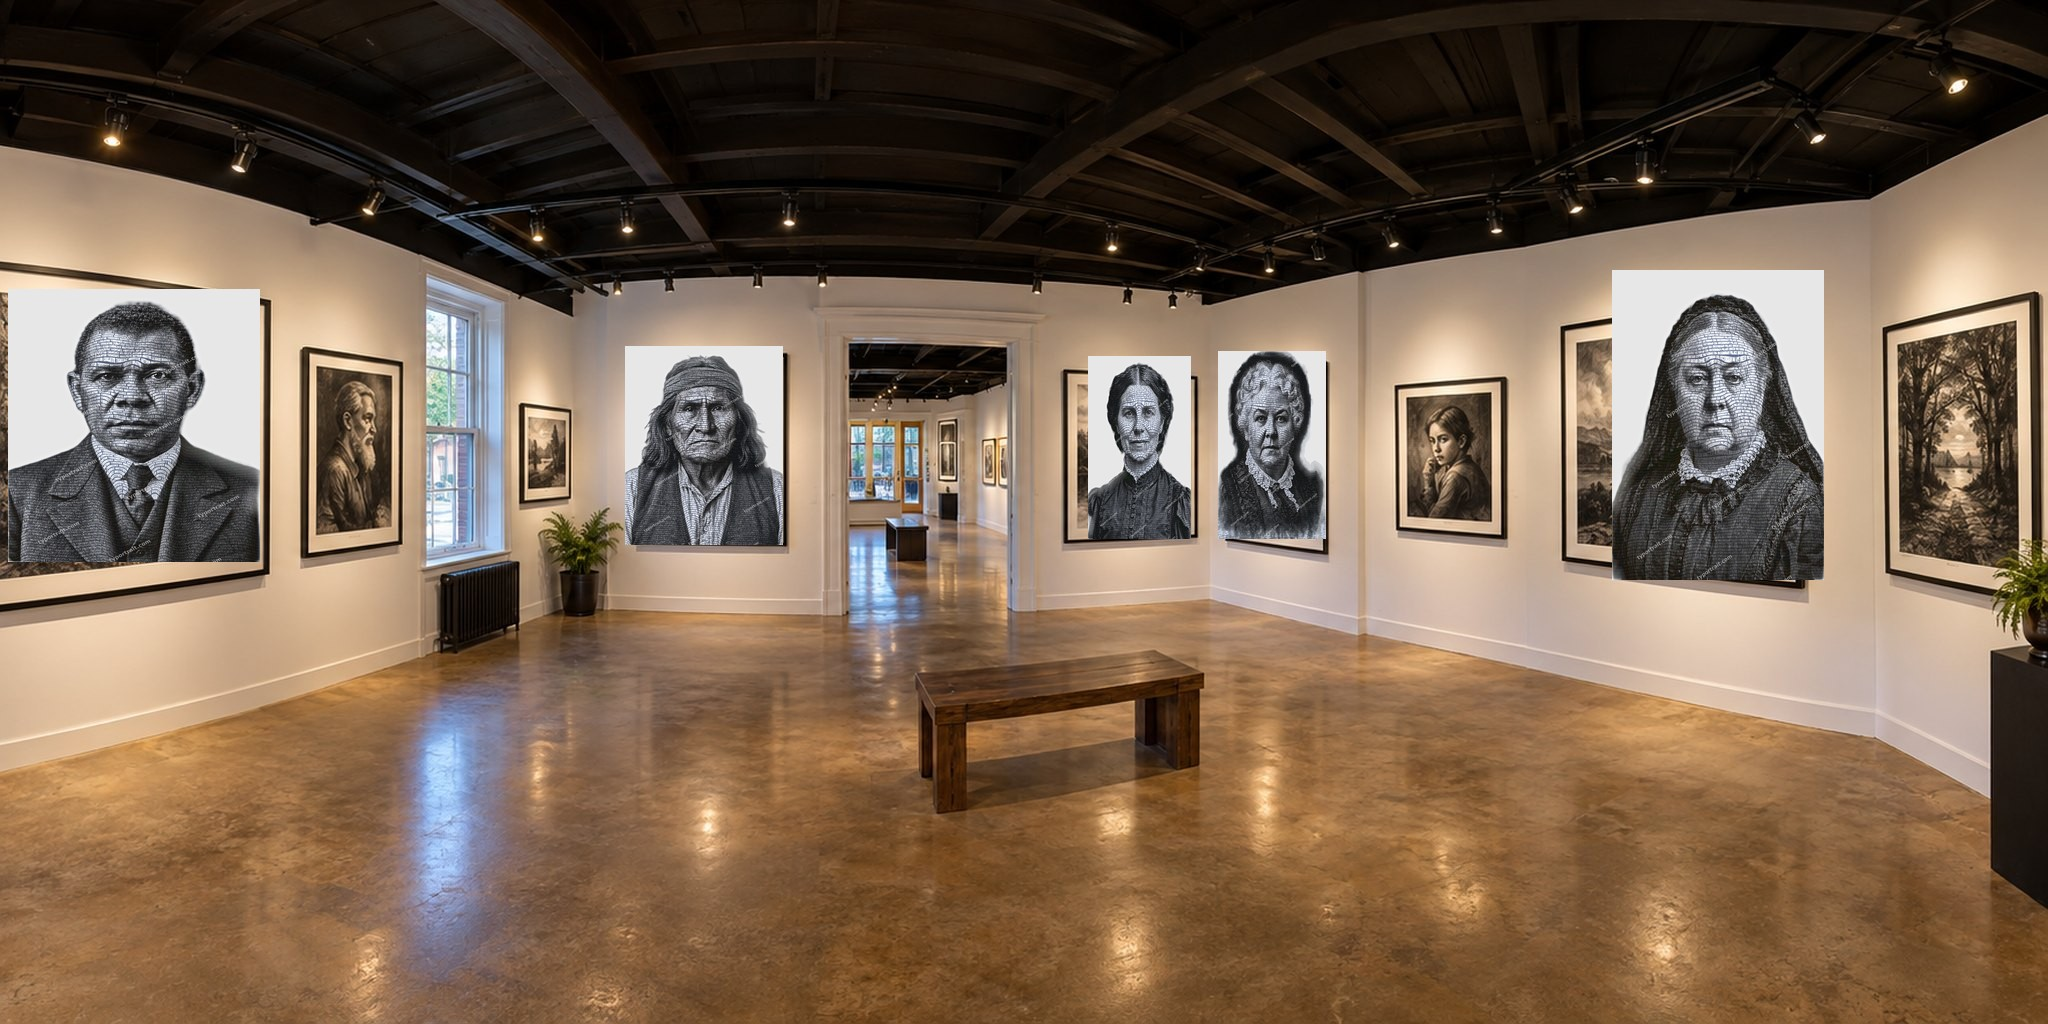
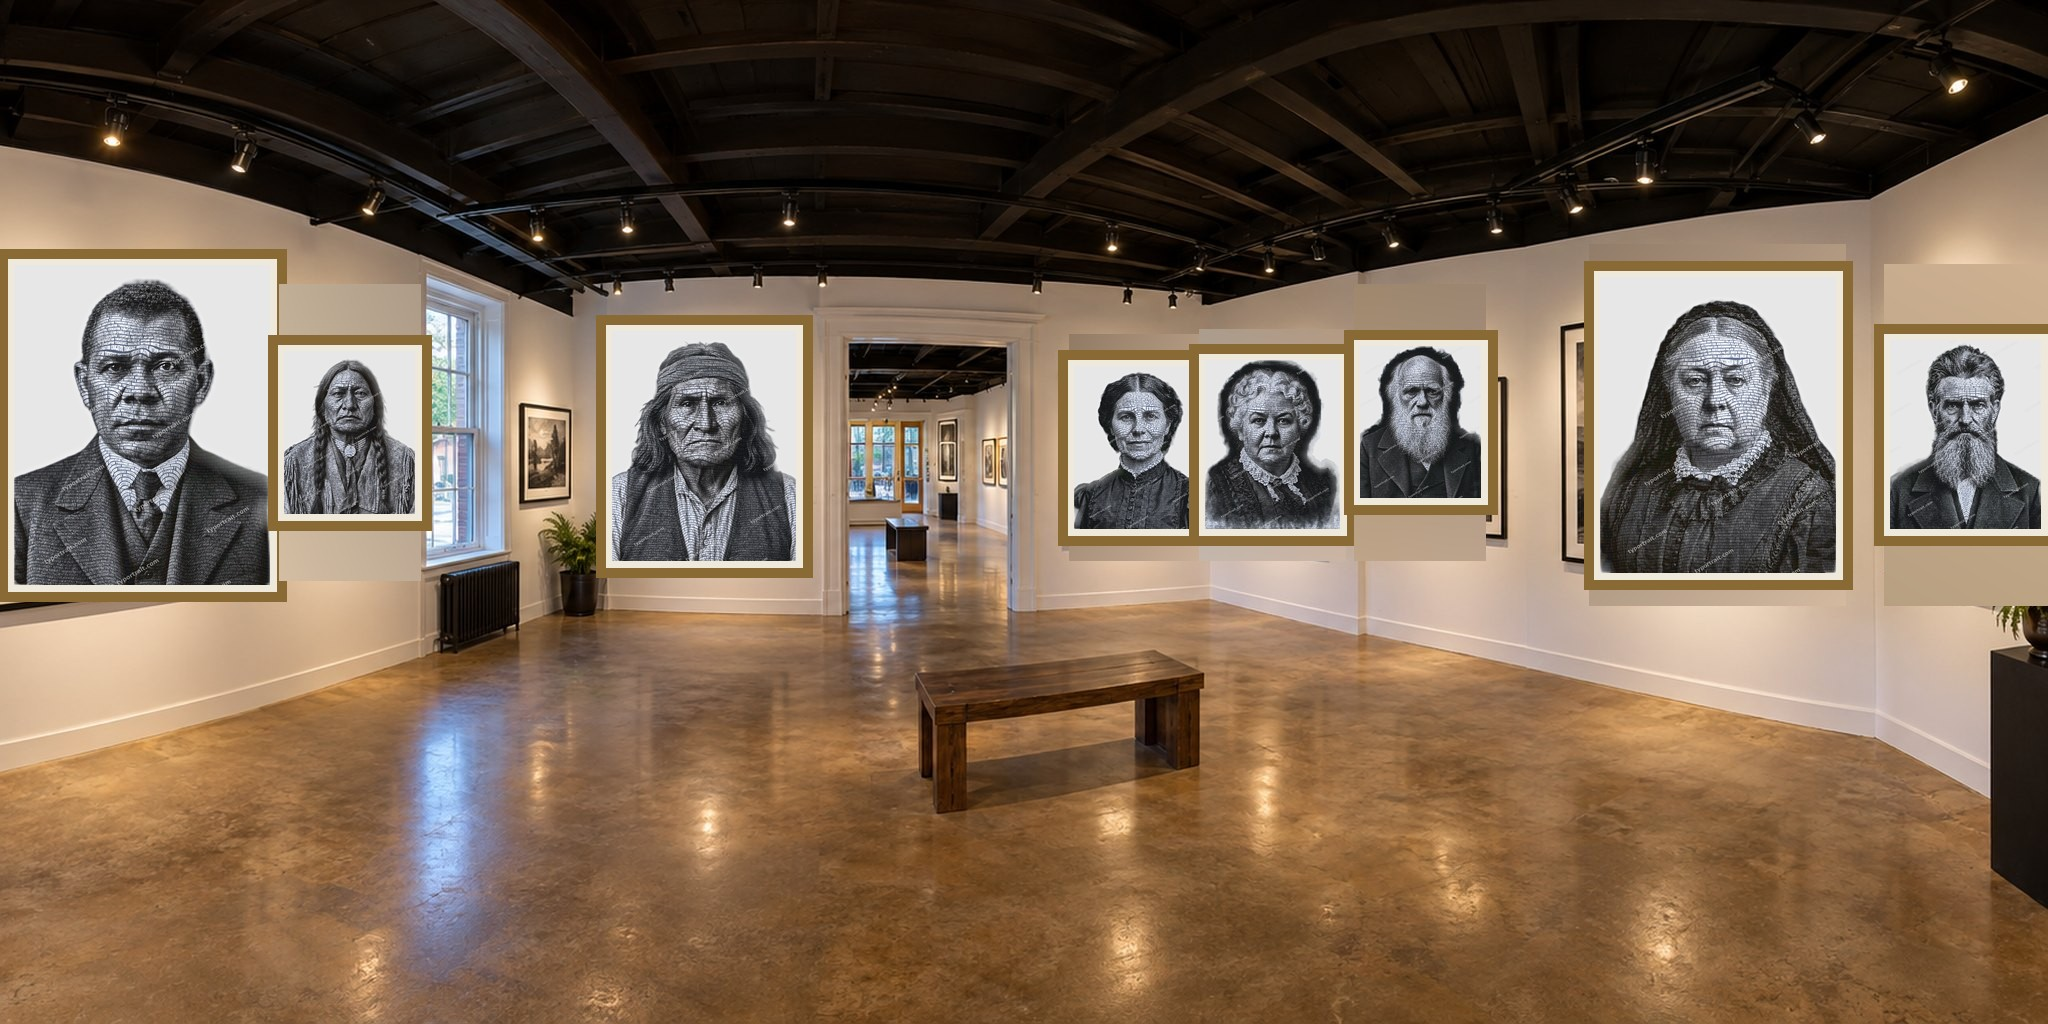
Rebuild photo tour bake: erase original art, draw our own frame, don't fit into theirs
Every prior version tried to make our portraits sit inside the SHAPE of
whatever real frame already hung at each spot in these photos -- as a
separate 3D card, or pixel-replacing just the picture area stretched or
padded to that frame's own aspect ratio. All of them ran into the same wall:
a real frame's shape doesn't always suit a portrait, and every way of
reconciling the two looked wrong -- the original art peeking through, a
visibly stretched face, or an obviously-pasted-on rectangle filling the gap.

This stops trying to fit into the existing frame's shape at all. For each
of the 19 identified frames across the three rooms, the original
photographed art is erased outright -- gradient-filled from the real wall
color sampled just outside its own edges, not covered by anything foreign --
and our own portrait is drawn on top at its own correct proportions, inside
a freshly-drawn gold frame, sized to sit comfortably in the erased area
rather than forced to fill it exactly. Because the erased area is genuinely
wall-colored now, not a mismatched patch, extra space around a portrait just
reads as wall -- the same as any other gap between two real frames -- so a
landscape-shaped or extreme-portrait-shaped real frame is exactly as usable
as a square one.

19 of 23 catalog items now have a baked spot across the three rooms (up from
14); the rest still sell fine from the grid and the walkthrough corridor.

Claude-Session: https://claude.ai/code/session_01XwVU5cc41rNpqSZeMAKs6S

Changed region(s): [[0.5, 0.25, 1.0, 0.5938], [0.0, 0.2188, 0.2188, 0.5938], [0.2812, 0.2812, 0.4062, 0.5625]]

diff --git a/typography_engine/static/gallery.html b/typography_engine/static/gallery.html
@@ -452,22 +452,23 @@ let raycaster, pointerNDC;   // built in initRenderer, once THREE is actually lo
 // The procedural corridor above gets the geometry and depth right but is still built
 // from flat materials and a handful of lights -- it can only ever look like a decent
 // 3D model. These three images are real (or near-photoreal) equirectangular panoramas
-// of an actual gallery interior, uploaded by the user. A first version placed our
-// portraits as separate 3D "cards" floating in front of the photo -- technically
-// correct but it read as exactly that: flat stickers pasted on top of a photograph,
-// not art actually hanging on the wall. This version instead bakes each portrait
-// directly into the panorama JPGs themselves (see ops/photoscene-composite, or ask
-// Claude to regenerate), pixel-replacing the real photographed artwork's picture area
-// -- so ours sits inside the SAME real frame, mat and lighting as whatever used to
-// hang there. What's built at runtime is just an invisible click/caption target at
-// each baked position, for navigation -- there is no visible mesh over the art itself.
-// Each photo can only show a portrait on a real frame whose own shape is already
-// close to a portrait's -- forcing one onto a landscape- or extreme-portrait-shaped
-// frame (stretching it, or padding the leftover space) always looked like a visible
-// patch rather than art actually hanging there, so those frames are simply left
-// untouched. 14 of 23 catalog items have a natural-looking spot across the three
-// rooms this way; the rest still sell fine from the grid and the corridor.
-const PHOTO_BAKE_VERSION = 5;    // bump whenever the baked panorama JPGs are regenerated
+// of an actual gallery interior, uploaded by the user. Earlier versions tried, several
+// different ways, to fit our portraits into the SHAPE of whatever real frame already
+// hung at each spot (a separate 3D card floating over the photo; pixel-replacing just
+// the picture area, stretched or padded to that frame's own aspect ratio) -- every one
+// of those either left the original art peeking through, visibly stretched a face out
+// of shape, or padded the gap with an obviously-pasted-on rectangle, because a real
+// frame's shape doesn't always suit a portrait. This version (see
+// ops/photoscene-composite.py, or ask Claude to regenerate) instead ERASES the real
+// frame's original art entirely -- gradient-filled from the real wall color sampled
+// just outside it, not covered by anything foreign -- and draws our own portrait, at
+// its own correct proportions, in a freshly-drawn gold frame, sized to sit comfortably
+// in the erased area rather than forced to fill it exactly. What's built at runtime is
+// just an invisible click/caption target at each baked position, for navigation --
+// there is no separate visible mesh over the art itself, it's genuinely part of the
+// photo. 19 of 23 catalog items have a spot across the three rooms this way; the rest
+// still sell fine from the grid and the corridor.
+const PHOTO_BAKE_VERSION = 6;    // bump whenever the baked panorama JPGs are regenerated
 const PHOTO_ROOM_RADIUS = 900;   // the panorama sphere
 const PHOTO_FRAME_RADIUS = 650;  // depth of the invisible click targets (matches bake)
 // Yaw values below are pre-corrected for THREE's actual SphereGeometry UV convention
@@ -479,24 +480,29 @@ const PHOTO_FRAME_RADIUS = 650;  // depth of the invisible click targets (matche
 // before this was calibrated, and easy to miss since it looks approximately plausible.
 const PHOTO_ROOMS = [
   { name:"The Entrance", src:"/static/gallery/photoscene/entrance.jpg", slots:[
-    {id:"edgar-allan-poe", yaw:-2.9974, pitch:0.2899, w:285.6, h:375.5},
-    {id:"frederick-douglass", yaw:2.1583, pitch:0.1902, w:198.3, h:246.6},
-    {id:"abraham-lincoln", yaw:-0.9787, pitch:0.1825, w:207.9, h:335.2},
+    {id:"edgar-allan-poe", yaw:-2.9974, pitch:0.2899, w:409.6, h:503.8},
+    {id:"frederick-douglass", yaw:2.1583, pitch:0.1902, w:321.4, h:390.0},
+    {id:"harriet-tubman", yaw:0.7547, pitch:0.1825, w:407.5, h:499.2},
+    {id:"abraham-lincoln", yaw:-0.9787, pitch:0.1825, w:332.0, h:400.9},
+    {id:"mark-twain", yaw:-1.3883, pitch:0.2746, w:285.6, h:344.8},
   ]},
   { name:"The Main Gallery", src:"/static/gallery/photoscene/main-room.jpg", slots:[
-    {id:"susan-b-anthony", yaw:-2.1844, pitch:0.2132, w:305.4, h:479.4},
-    {id:"walt-whitman", yaw:-3.1278, pitch:0.2362, w:335.2, h:468.7},
-    {id:"sojourner-truth", yaw:2.5802, pitch:0.1979, w:227.2, h:355.3},
-    {id:"theodore-roosevelt", yaw:0.0399, pitch:0.2899, w:365.3, h:500.8},
-    {id:"nikola-tesla", yaw:-0.5415, pitch:0.2209, w:256.3, h:345.2},
-    {id:"ulysses-s-grant", yaw:-1.0554, pitch:0.2899, w:345.2, h:500.8},
+    {id:"susan-b-anthony", yaw:-2.1844, pitch:0.2132, w:431.7, h:531.5},
+    {id:"walt-whitman", yaw:-3.1278, pitch:0.2362, w:460.7, h:571.5},
+    {id:"sojourner-truth", yaw:2.5802, pitch:0.1979, w:351.2, h:427.3},
+    {id:"theodore-roosevelt", yaw:0.0399, pitch:0.2899, w:492.3, h:612.4},
+    {id:"nikola-tesla", yaw:-0.5415, pitch:0.2209, w:381.3, h:465.1},
+    {id:"ulysses-s-grant", yaw:-1.0554, pitch:0.2899, w:471.9, h:585.8},
   ]},
   { name:"The Rear Salon", src:"/static/gallery/photoscene/rear-room.jpg", slots:[
-    {id:"booker-t-washington", yaw:-1.9819, pitch:0.2669, w:529.0, h:577.7},
-    {id:"geronimo", yaw:2.5525, pitch:0.2025, w:321.2, h:410.3},
-    {id:"clara-barton", yaw:1.2149, pitch:0.1979, w:207.9, h:375.5},
-    {id:"elizabeth-cady-stanton", yaw:0.8084, pitch:0.2056, w:217.6, h:385.7},
-    {id:"queen-victoria", yaw:-0.5568, pitch:0.2669, w:437.2, h:669.9},
+    {id:"booker-t-washington", yaw:-2.0064, pitch:0.2669, w:614.9, h:779.2},
+    {id:"sitting-bull", yaw:-2.6446, pitch:0.2439, w:332.0, h:400.9},
+    {id:"geronimo", yaw:2.5525, pitch:0.2025, w:447.2, h:552.5},
+    {id:"clara-barton", yaw:1.2149, pitch:0.1979, w:332.0, h:400.9},
+    {id:"elizabeth-cady-stanton", yaw:0.8084, pitch:0.2056, w:340.5, h:414.0},
+    {id:"charles-darwin", yaw:0.3559, pitch:0.2746, w:310.8, h:377.0},
+    {id:"queen-victoria", yaw:-0.5568, pitch:0.2669, w:566.7, h:715.5},
+    {id:"john-brown", yaw:-1.3192, pitch:0.2362, w:374.8, h:458.4},
   ]},
 ];
 let photoRoom = 0, photoYaw = 0, photoPitch = 0, photoFov = 66;

diff --git a/typography_engine/ops/photoscene-composite.py b/typography_engine/ops/photoscene-composite.py
@@ -1,20 +1,33 @@
 #!/usr/bin/env python3
 """Bakes History in Words portraits directly into the Photo Tour panorama JPGs
-(static/gallery/photoscene/*.jpg), replacing the real photographed artwork's picture
-area pixel-for-pixel so ours sits inside the same real frame, mat and lighting as
-whatever used to hang there -- see the "Photo Tour" comment block in gallery.html for
-why (a first version overlaid separate 3D "cards" on top of the photos instead, which
-read as flat stickers pasted onto a photograph, not art actually hanging on a wall).
+(static/gallery/photoscene/*.jpg).
+
+Earlier versions of this script tried to make our portraits sit inside the REAL
+photographed frames in these photos -- pixel-replacing just the picture area so ours
+used the real frame's own border/mat as its frame. That worked well for frames whose
+real shape was already close to a portrait's, but for the frames that weren't (a wide
+lake scene, a narrow tall strip), every way of reconciling a 4:5 portrait with a
+differently-shaped hole looked wrong: stretched a face out of shape, left the original
+art showing round the edges, or padded the gap with an obviously-pasted-on rectangle.
+That's not a technique problem, it's a shape problem -- you cannot losslessly fit a
+4:5 rectangle into a 3:1 one.
+
+This version sidesteps the whole problem: for each real frame ERASE the original
+photographed art -- gradient-fill it from the real wall color sampled just outside its
+own edges, removing it completely, not covering it with anything foreign -- and then
+draw our own portrait, at its own correct proportions, in a freshly-drawn frame,
+sized and centered in the erased area (not stretched or forced to any particular
+size). Because the surrounding wall is now genuinely wall-colored (not a mismatched
+patch), the portrait never needs to fill the whole erased area -- extra erased space
+either side just reads as wall, the same as any other gap between frames in a real
+gallery.
 
 Always reads its source panoramas from ops/photoscene-originals/*.jpg -- the true,
 never-baked photos as uploaded, kept permanently for exactly this purpose -- and
 writes the result to static/gallery/photoscene/*.jpg, overwriting whatever's there.
 Do NOT "fix" this to read from static/gallery/photoscene/ instead: those get
-committed already-baked, so reading from there bakes a portrait on top of whatever
-was baked there last time rather than on the real photo, and any REGIONS entry
-removed since then silently keeps showing its stale previous bake instead of
-reverting to the true original -- exactly the bug that prompted keeping a separate
-pristine copy in the first place. Needs Pillow:
+committed already-baked, so reading from there bakes on top of the previous bake
+rather than the real photo. Needs Pillow and NumPy:
     python3 ops/photoscene-composite.py
 
 After running, paste the printed PHOTO_ROOMS block into gallery.html verbatim (it
@@ -30,28 +43,12 @@ the yaw values it prints are ready to paste straight into gallery.html's PHOTO_R
 do NOT re-derive yaw from pixel position by the "obvious" formula without this
 correction, or captions/click-targets will land near the right neighborhood but not on
 the actual baked portrait, which is exactly what happened here before this was found.
-
-IMPORTANT -- why some real frames are skipped entirely: three earlier versions of this
-script tried to make every real frame in these photos work for a portrait, however
-poorly its own shape fit one, three different ways -- (1) fit a smaller aspect-correct
-box inside the frame: left a border of the frame's ORIGINAL photographed art showing;
-(2) stretch the portrait to fill the frame exactly: fixed that but visibly distorted
-the face on any frame shaped very differently from a portrait; (3) fit the portrait at
-its true aspect and pad the leftover with more of the portrait's own plain background:
-no distortion and no original art showing, but on the more extreme frames the padding
-was a large, flat, obviously-pasted-on rectangle -- still not the real answer. The real
-fix is upstream of all three: REGIONS below only lists frames whose real aspect ratio
-is already close to a portrait's (a tight tolerance band, checked in main()) -- a
-handful of frames in these photos are genuinely landscape- or extreme-portrait-shaped
-(a wide lake scene, a very tall narrow strip) and are simply never assigned a portrait,
-left completely untouched. Trying to force a portrait into a landscape-shaped frame is
-the wrong move regardless of technique; the corresponding catalog items just don't get
-a baked position in these three photos (still sellable from the grid and the corridor).
 """
 import math
 from pathlib import Path
 
-from PIL import Image
+import numpy as np
+from PIL import Image, ImageDraw
 
 ROOT = Path(__file__).resolve().parent.parent
 ART_DIR = ROOT / "static/gallery/art"
@@ -61,16 +58,18 @@ OUT_DIR = ROOT / "static/gallery/photoscene"         # baked result served to vi
 ROOM_NAMES = {"entrance": "The Entrance", "main-room": "The Main Gallery", "rear-room": "The Rear Salon"}
 
 # Outer pixel bounding boxes (x0,y0,x1,y1) of real frames in each 2048x1024
-# equirectangular photo, hand-measured by cropping+gridding the image and reading it
-# off (see conversation history / ask Claude to redo this if the panoramas ever
-# change), each explicitly paired with the catalog item id that goes there -- NOT
-# matched positionally against a separate items list, so dropping a region (see
-# module docstring) can never silently shift every later item onto the wrong frame.
+# equirectangular photo -- hand-measured by cropping+gridding the image and reading
+# it off (see conversation history / ask Claude to redo this if the panoramas ever
+# change). Unlike earlier versions, the box's own aspect ratio no longer matters: it's
+# erased, not fit into, so a wide or narrow real frame is exactly as usable as a
+# square one now.
 REGIONS = {
     "entrance": [
         ("edgar-allan-poe", (390, 320, 540, 515)),
         ("frederick-douglass", (780, 385, 885, 515)),
+        ("harriet-tubman", (1020, 365, 1560, 540)),
         ("abraham-lincoln", (1800, 365, 1910, 540)),
+        ("mark-twain", (1945, 250, 2048, 595)),
     ],
     "main-room": [
         ("susan-b-anthony", (120, 320, 280, 565)),
@@ -82,30 +81,71 @@ REGIONS = {
     ],
     "rear-room": [
         ("booker-t-washington", (0, 280, 268, 570)),
+        ("sitting-bull", (295, 300, 405, 565)),
         ("geronimo", (620, 340, 788, 552)),
         ("clara-barton", (1085, 350, 1195, 545)),
         ("elizabeth-cady-stanton", (1215, 345, 1330, 545)),
+        ("charles-darwin", (1370, 300, 1470, 545)),
         ("queen-victoria", (1605, 260, 1830, 590)),
+        ("john-brown", (1900, 280, 2048, 590)),
     ],
 }
 
 W, H = 2048, 1024
-RADIUS = 650  # matches PHOTO_FRAME_RADIUS in gallery.html
-ART_ASPECT = 900 / 1125  # w/h of the source portrait PNGs (0.8)
-# Regions must already be within this ratio of the portrait's own aspect (checked by
-# an assertion in main(), not silently handled) -- see module docstring for why a
-# region outside it is dropped from REGIONS instead of forced to fit some other way.
-ASPECT_TOLERANCE = (0.55, 1.05)
+RADIUS = 650       # matches PHOTO_FRAME_RADIUS in gallery.html
+ERASE_MARGIN = 16  # px beyond the measured box, so the real frame's border/mat is fully gone
+EDGE_SAMPLE = 10    # px thickness of the strip sampled just outside the erase box for its fill color
+FRAME_GOLD = (138, 106, 52)
+FRAME_MAT = (239, 233, 220)
+BORDER_PX, MAT_PX = 10, 6
 
 
-def inner_box(x0, y0, x1, y1):
-    """The region minus a hairline margin for the real frame's own inner edge -- the
-    area to fully replace. A small, mild stretch to exactly this box is the ENTIRE
-    story now that REGIONS only lists frames within ASPECT_TOLERANCE of a portrait's
-    own shape -- no padding, no distortion, and the frame's real photographed border
-    and mat (just outside this box) stay as the actual visible frame."""
-    margin_x, margin_y = (x1 - x0) * 0.03, (y1 - y0) * 0.03
-    return x0 + margin_x, y0 + margin_y, x1 - margin_x, y1 - margin_y
+def erase_region(arr, x0, y0, x1, y1):
+    """Gradient-fill the box in-place from the real wall color sampled just outside
+    its own four edges (bilinear blend of the four edge means) -- removes the
+    original photographed art without leaving any trace of a foreign patch, since the
+    fill color comes from that exact spot's own real lighting, not a fixed value or a
+    value borrowed from a different part of the room."""
+    h, w = arr.shape[:2]
+    ex0, ey0 = max(0, x0 - EDGE_SAMPLE), max(0, y0 - EDGE_SAMPLE)
+    ex1, ey1 = min(w, x1 + EDGE_SAMPLE), min(h, y1 + EDGE_SAMPLE)
+    top = arr[ey0:y0, x0:x1].reshape(-1, 3).mean(axis=0) if y0 > ey0 else arr[y0, x0:x1].mean(axis=0)
+    bottom = arr[y1:ey1, x0:x1].reshape(-1, 3).mean(axis=0) if ey1 > y1 else arr[y1 - 1, x0:x1].mean(axis=0)
+    left = arr[y0:y1, ex0:x0].reshape(-1, 3).mean(axis=0) if x0 > ex0 else arr[y0:y1, x0].mean(axis=0)
+    right = arr[y0:y1, x1:ex1].reshape(-1, 3).mean(axis=0) if ex1 > x1 else arr[y0:y1, x1 - 1].mean(axis=0)
+
+    bw, bh = x1 - x0, y1 - y0
+    fx = np.linspace(0, 1, bw)[None, :, None]
+    fy = np.linspace(0, 1, bh)[:, None, None]
+    horiz = left[None, None, :] * (1 - fx) + right[None, None, :] * fx
+    vert = top[None, None, :] * (1 - fy) + bottom[None, None, :] * fy
+    fill = ((horiz + vert) / 2).astype(np.uint8)
+    arr[y0:y1, x0:x1] = fill
+
+
+def frame_size(bw, bh):
+    """A consistent-feeling portrait size for this erased area -- filling it fully is
+    no longer the goal (see module docstring), just sitting comfortably inside it."""
+    target_h = max(140, min(bh, 320))
+    target_w = target_h * (900 / 1125)
+    if target_w > bw * 0.92:
+        target_w = bw * 0.92
+        target_h = target_w / (900 / 1125)
+    return round(target_w), round(target_h)
+
+
+def draw_framed_portrait(im, art, cx, cy, pw, ph):
+    """Paste the portrait centered at (cx,cy) inside a small drawn gold border + mat
+    -- since the real photographed frame is gone (erased), every portrait gets the
+    same deliberate framing rather than relying on whatever frame used to be there."""
+    x0, y0 = round(cx - pw / 2), round(cy - ph / 2)
+    d = ImageDraw.Draw(im)
+    ox0, oy0 = x0 - MAT_PX - BORDER_PX, y0 - MAT_PX - BORDER_PX
+    ox1, oy1 = x0 + pw + MAT_PX + BORDER_PX, y0 + ph + MAT_PX + BORDER_PX
+    d.rectangle([ox0, oy0, ox1, oy1], fill=FRAME_GOLD)
+    d.rectangle([x0 - MAT_PX, y0 - MAT_PX, x0 + pw + MAT_PX, y0 + ph + MAT_PX], fill=FRAME_MAT)
+    resized = art.resize((pw, ph), Image.LANCZOS)
+    im.paste(resized, (x0, y0))
 
 
 def yaw_pitch(px, py):
@@ -117,9 +157,13 @@ def yaw_pitch(px, py):
     return yaw, pitch
 
 
-def world_size(bx0, by0, bx1, by1):
-    ang_w = (bx1 - bx0) / W * 2 * math.pi
-    ang_h = (by1 - by0) / H * math.pi
+def world_size(pw, ph, bx0, by0, bx1, by1):
+    # Angular size derived from the DRAWN frame (including its border/mat), not the
+    # raw portrait pixels, so the invisible click target matches what's on screen.
+    fw, fh = pw + 2 * (BORDER_PX + MAT_PX), ph + 2 * (BORDER_PX + MAT_PX)
+    cx, cy = (bx0 + bx1) / 2, (by0 + by1) / 2
+    ang_w = fw / W * 2 * math.pi
+    ang_h = fh / H * math.pi
     return 2 * RADIUS * math.tan(ang_w / 2), 2 * RADIUS * math.tan(ang_h / 2)
 
 
@@ -128,21 +172,26 @@ def main():
     js_lines = ["const PHOTO_ROOMS = ["]
     for room, regions in REGIONS.items():
         im = Image.open(ORIGINALS_DIR / f"{room}.jpg").convert("RGB")
+        arr = np.array(im)
         js_lines.append(f'  {{ name:"{ROOM_NAMES[room]}", src:"/static/gallery/photoscene/{room}.jpg", slots:[')
         for (it, (x0, y0, x1, y1)) in regions:
-            aspect = (x1 - x0) / (y1 - y0)
-            lo, hi = ASPECT_TOLERANCE
-            assert lo <= aspect <= hi, (
-                f"{room}/{it}: region aspect {aspect:.2f} outside tolerance {ASPECT_TOLERANCE} -- "
-                f"drop this region from REGIONS rather than forcing a fit (see module docstring)"
-            )
             total += 1
-            bx0, by0, bx1, by1 = inner_box(x0, y0, x1, y1)
-            bw, bh = int(round(bx1 - bx0)), int(round(by1 - by0))
-            art = Image.open(ART_DIR / f"{it}.png").convert("RGB").resize((bw, bh), Image.LANCZOS)
-            im.paste(art, (int(round(bx0)), int(round(by0))))
-            yaw, pitch = yaw_pitch((bx0 + bx1) / 2, (by0 + by1) / 2)
-            ww, wh = world_size(bx0, by0, bx1, by1)
+            ex0 = max(0, x0 - ERASE_MARGIN)
+            ey0 = max(0, y0 - ERASE_MARGIN)
+            ex1 = min(W, x1 + ERASE_MARGIN)
+            ey1 = min(H, y1 + ERASE_MARGIN)
+            erase_region(arr, ex0, ey0, ex1, ey1)
+            im = Image.fromarray(arr)
+
+            bw, bh = ex1 - ex0, ey1 - ey0
+            pw, ph = frame_size(bw, bh)
+            cx, cy = (ex0 + ex1) / 2, (ey0 + ey1) / 2
+            art = Image.open(ART_DIR / f"{it}.png").convert("RGB")
+            draw_framed_portrait(im, art, cx, cy, pw, ph)
+            arr = np.array(im)  # keep arr in sync for the next erase_region call
+
+            yaw, pitch = yaw_pitch(cx, cy)
+            ww, wh = world_size(pw, ph, ex0, ey0, ex1, ey1)
             js_lines.append(
                 f'    {{id:"{it}", yaw:{round(yaw, 4)}, pitch:{round(pitch, 4)}, '
                 f'w:{round(ww, 1)}, h:{round(wh, 1)}}},'
